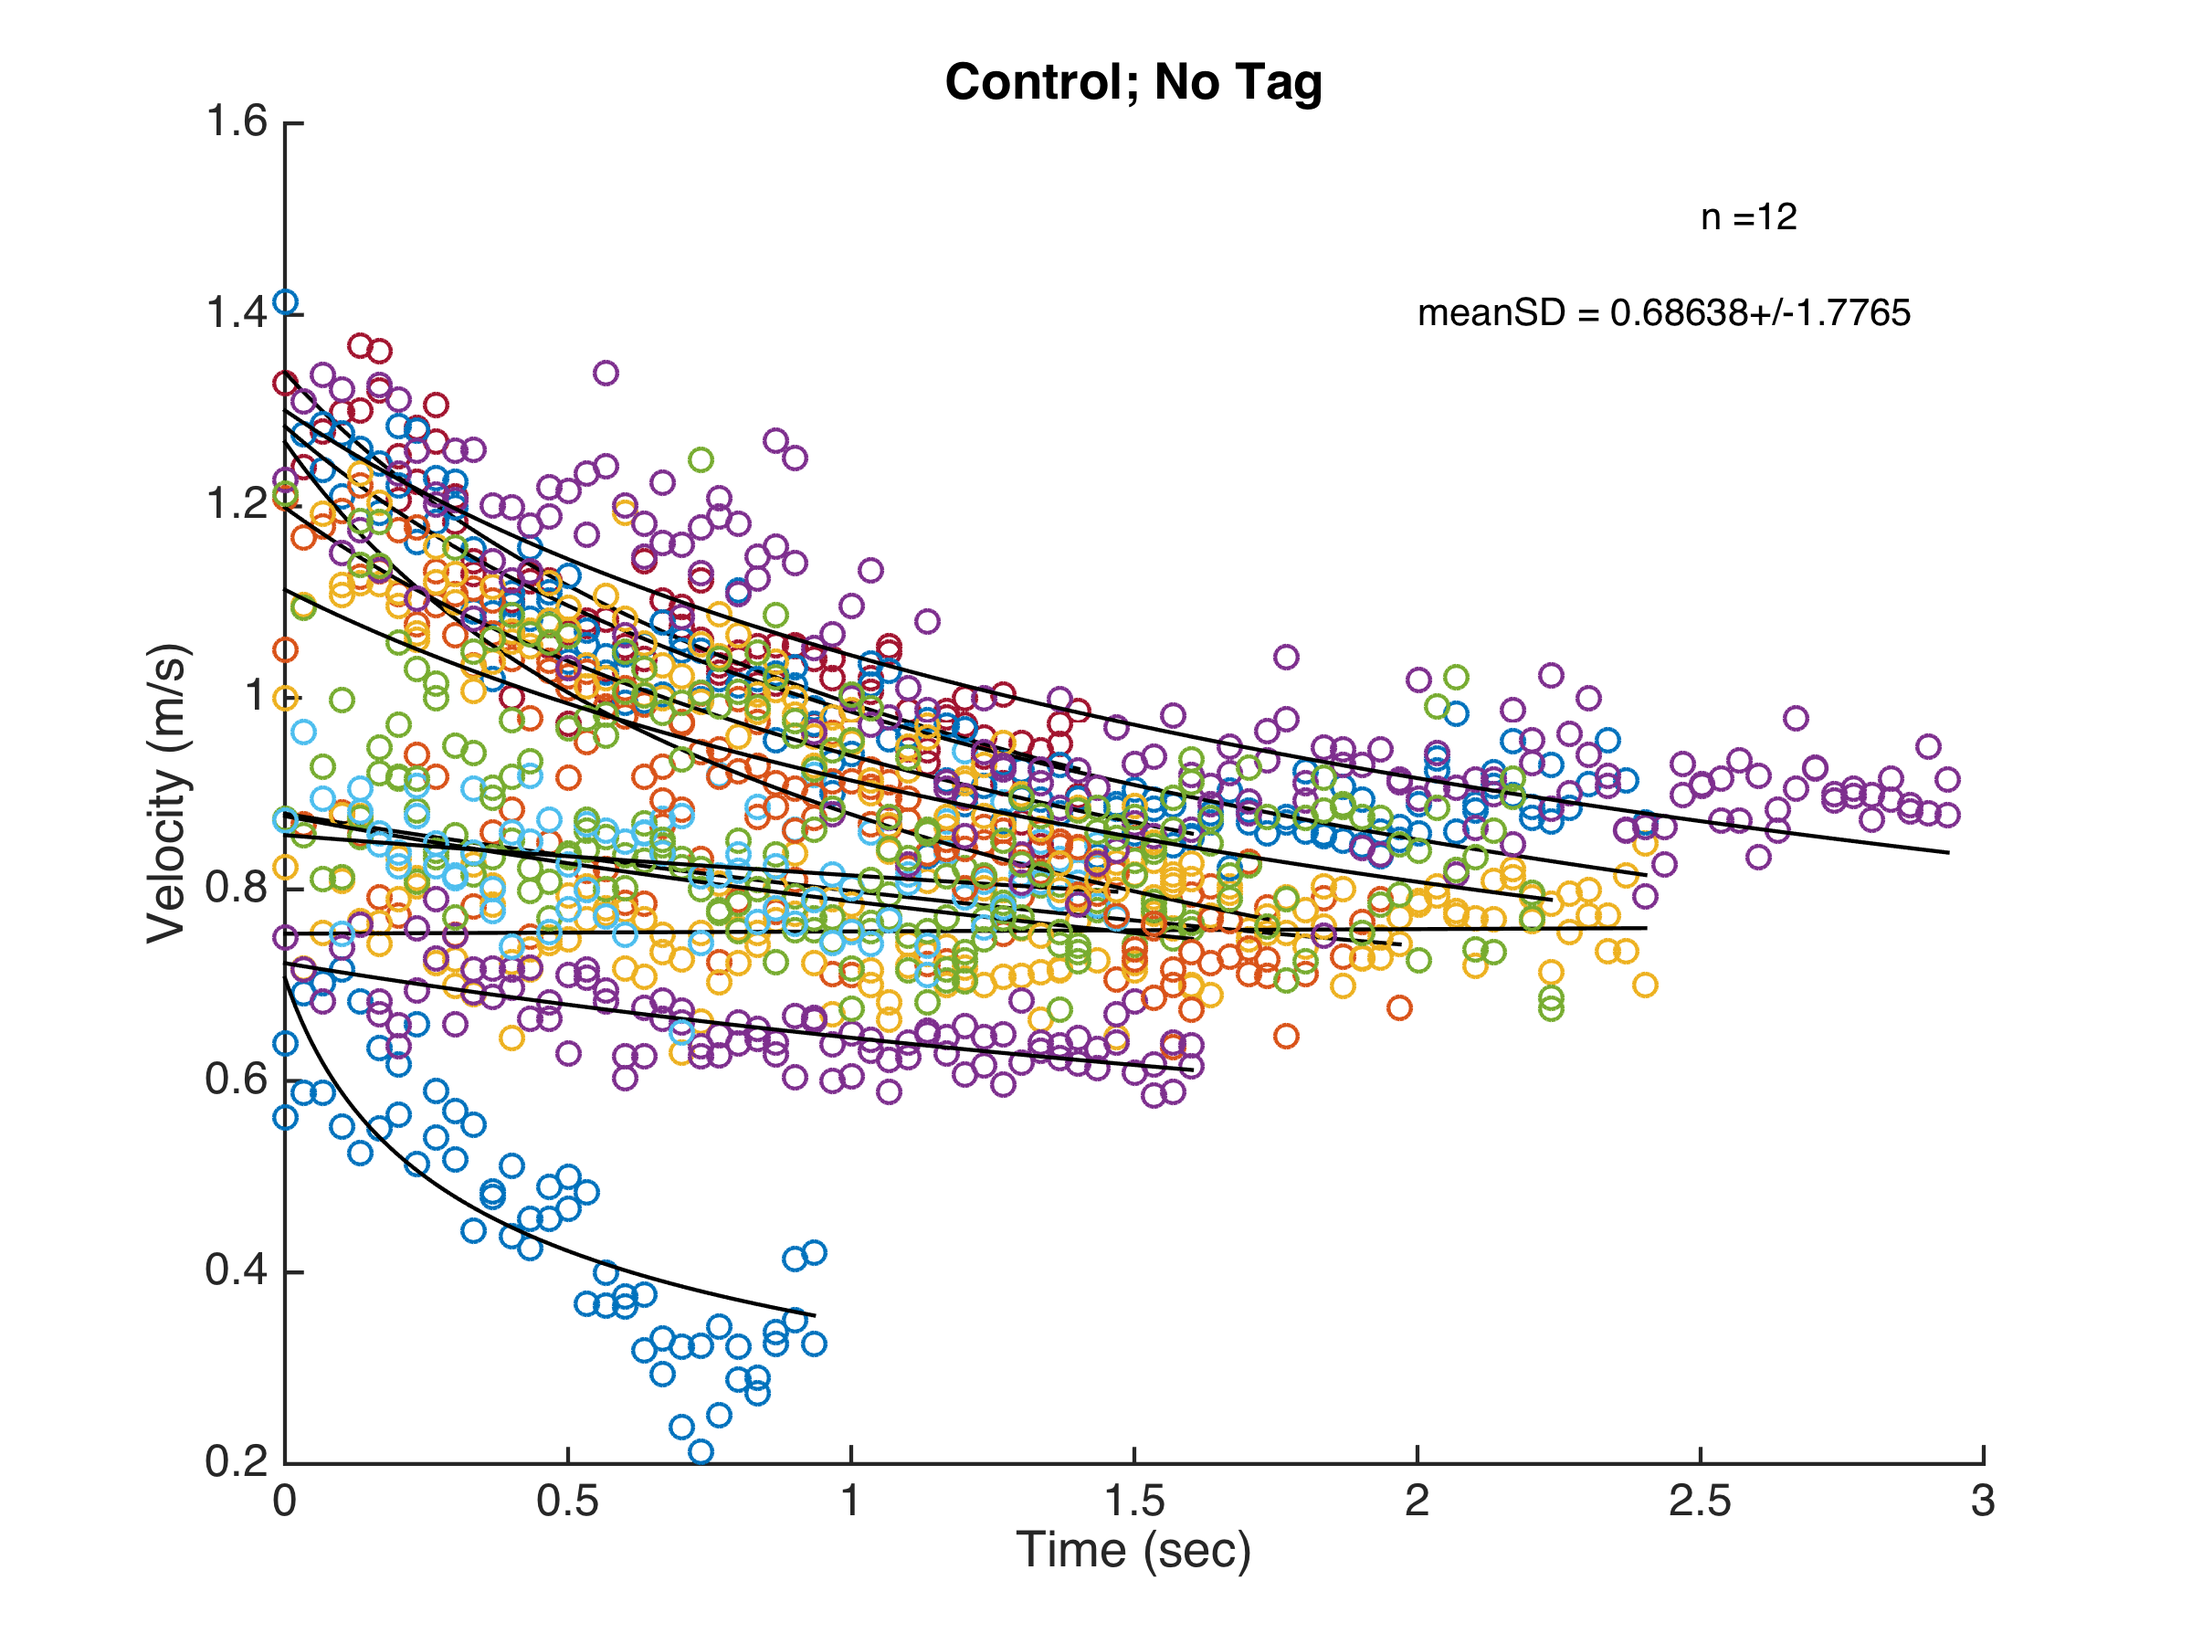
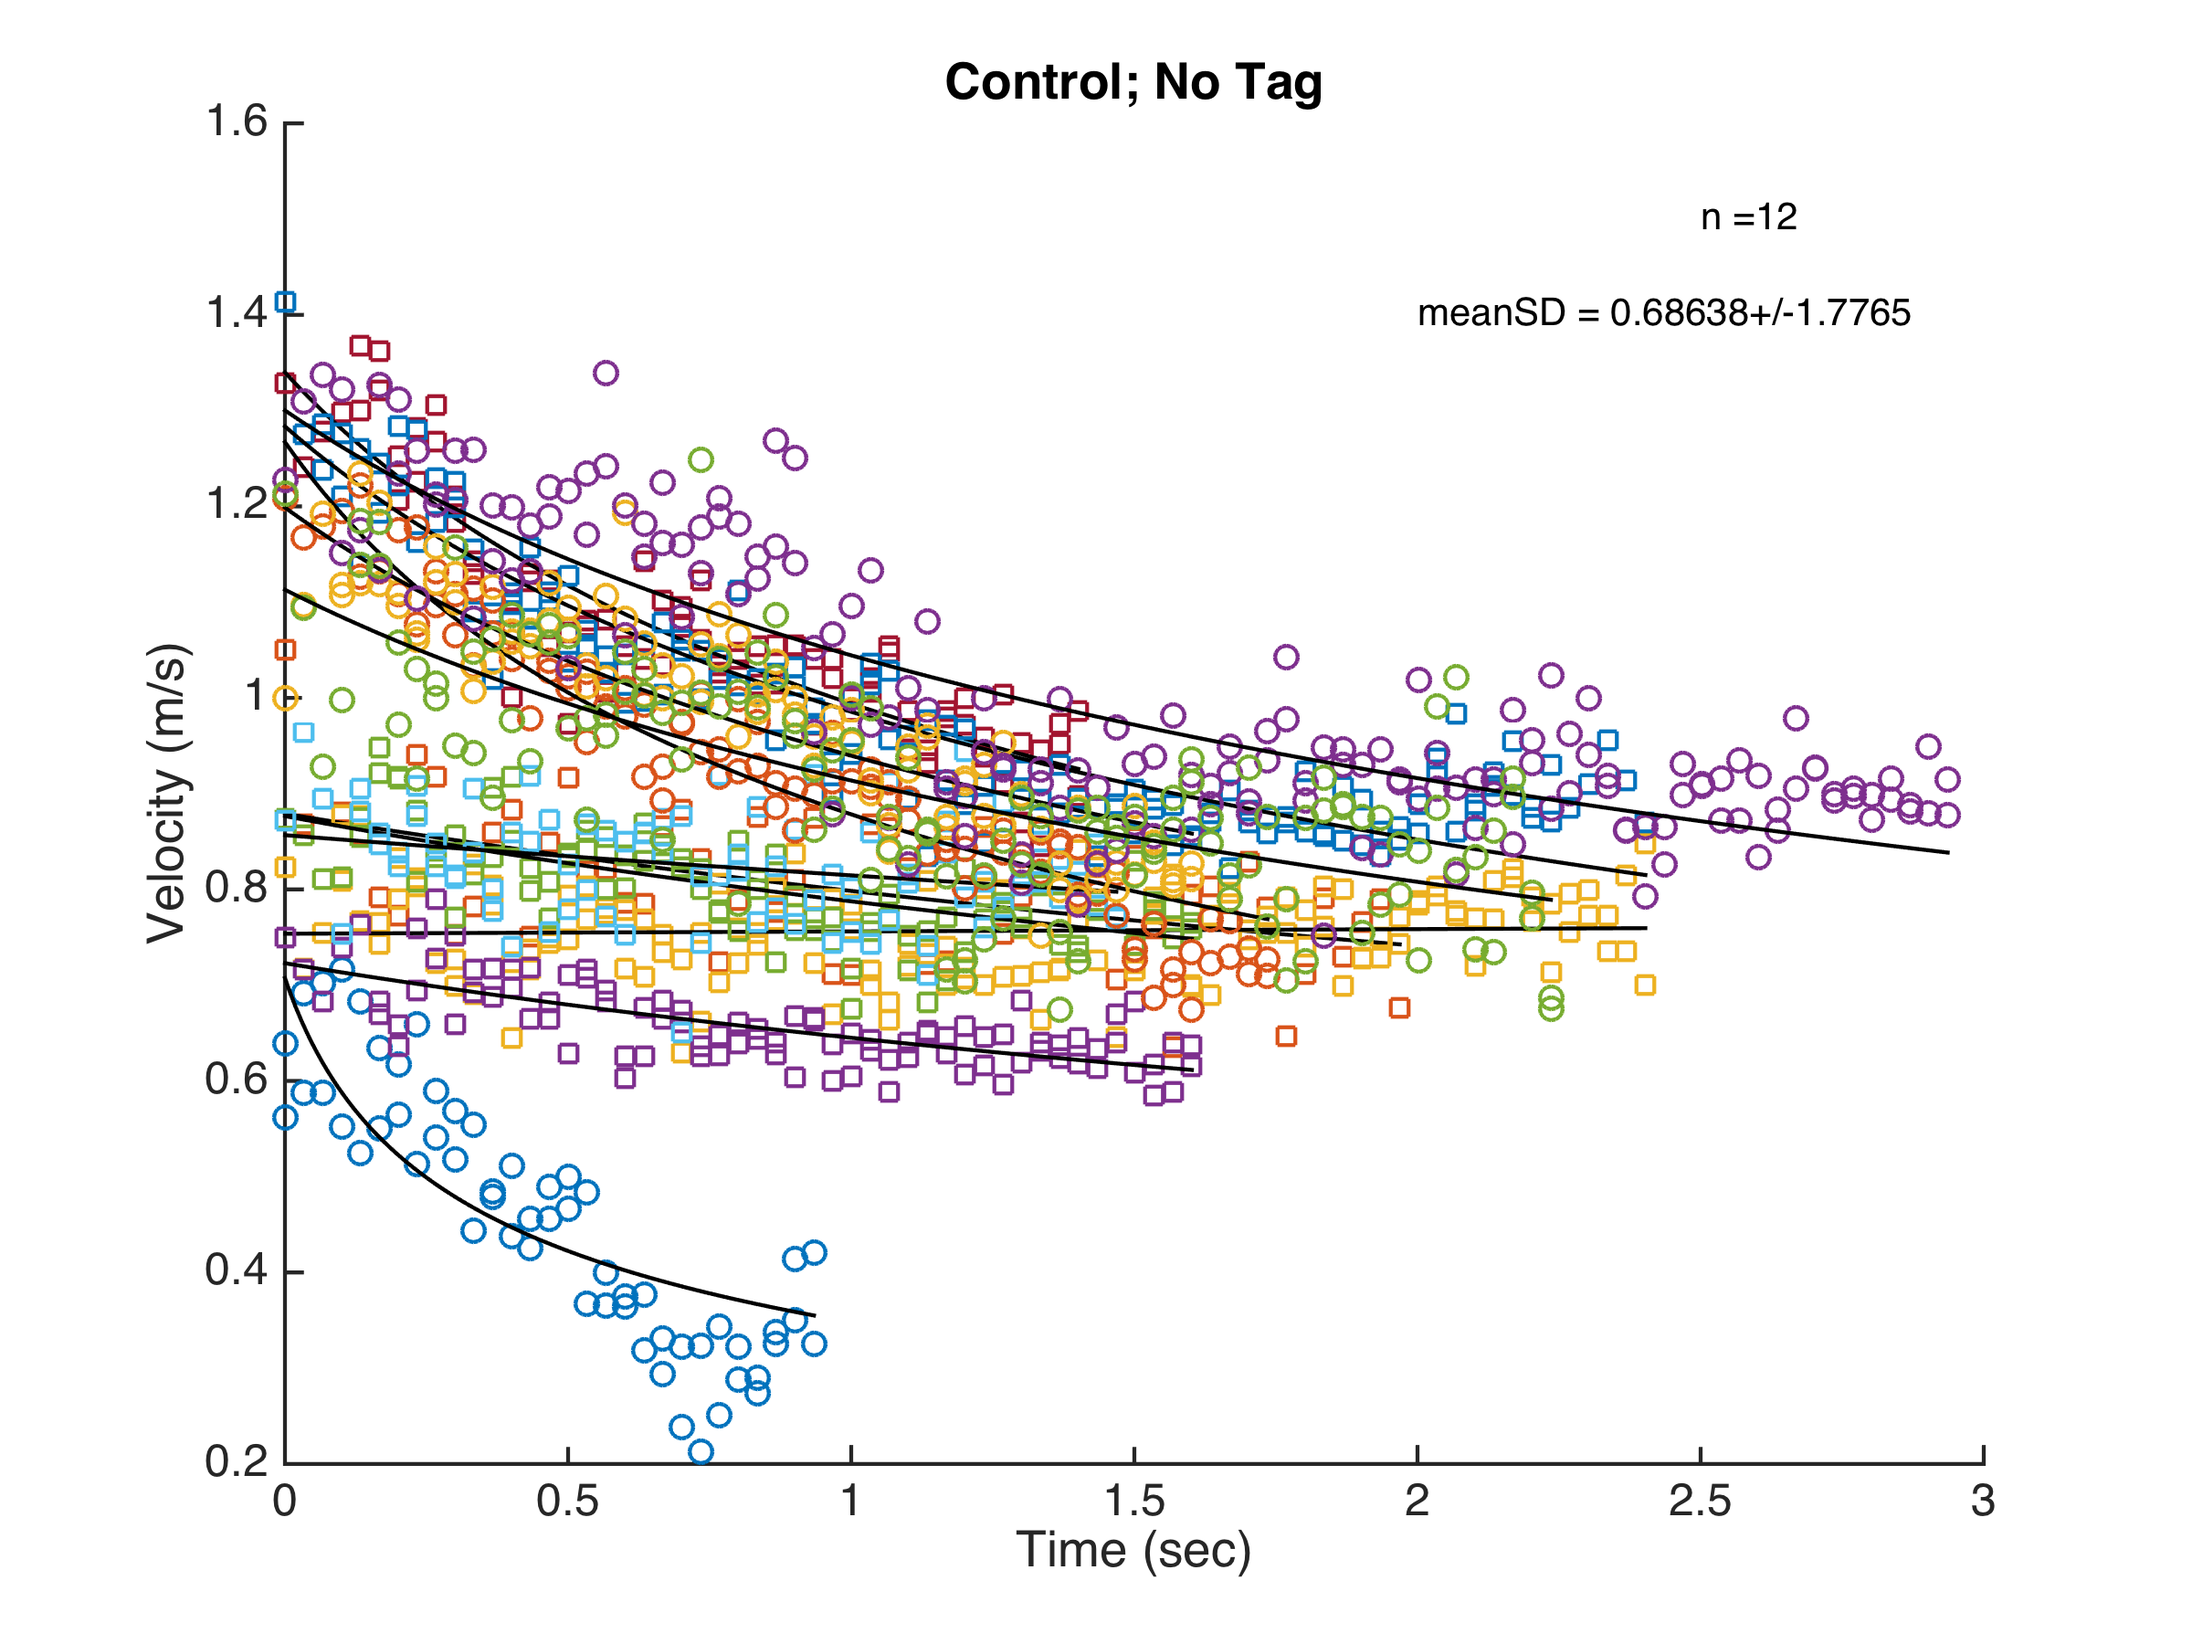
Plot colors

Changed region(s): [[0.125, 0.3422, 0.75, 0.6844], [0.125, 0.1867, 0.2188, 0.3422], [0.2188, 0.4044, 0.25, 0.4356]]

diff --git a/DQ2013_GlideModelAS.m b/DQ2013_GlideModelAS.m
@@ -47,7 +47,7 @@ for i = 1:length(glide)
     times = linspace(xdata(1),xdata(end));
     h1 = plot(xdata,ydata,'o');
     if glide(i).animal == 1
-        set(h1,'markerstyle','s')
+        set(h1,'marker','s')
     end
     plot(times,fun(x(i,:),times),'k-')
     
@@ -158,7 +158,8 @@ x0 = [1,-1];
 
 % plot data
 times = linspace(xdata(1),xdata(end));
-plot(xdata,ydata,'o',times,fun(x,times),'b-')
+plot(xdata,ydata,'ko')
+plot(times,fun(x,times),'k-','Linewidth',2)
 
 % calculate Cd for C0
 Mt = 0; SAt = 0;
@@ -177,7 +178,8 @@ x0 = [1,-1];
 
 % plot data
 times = linspace(xdata(1),xdata(end));
-plot(xdata,ydata,'o',times,fun(x,times),'k-')
+plot(xdata,ydata,'o','Color',[55/255 126/255 184/255])
+plot(times,fun(x,times),'k-','Linewidth',2)
 
 % calculate Cd for C1
 Mt = 0.250; % tag weighs 250 g (weighed on necropsy scale 17 Mar 2016)
@@ -197,7 +199,8 @@ x0 = [1,-1];
 
 % plot data
 times = linspace(xdata(1),xdata(end));
-plot(xdata,ydata,'o',times,fun(x,times),'k-')
+plot(xdata,ydata,'o','Color',[77/255 175/255 74/255])
+plot(times,fun(x,times),'k-','Linewidth',2)
 
 % calculate Cd for C3
 Mt = 0.250+(0.135)*2; % 2x elements are 135 g
@@ -216,7 +219,8 @@ x0 = [1,-1];
 
 % plot data
 times = linspace(xdata(1),xdata(end));
-plot(xdata,ydata,'o',times,fun(x,times),'k-')
+plot(xdata,ydata,'o','Color',[228/255 26/255 28/255])
+plot(times,fun(x,times),'k-','Linewidth',2)
 
 % calculate Cd for C5
 Mt = 0.250+(0.135)*4; % 2x elements are 135 g
@@ -234,13 +238,17 @@ print('Cd_fitall','-dpng','-r300')
 %% compare both methods:
 figure(10); clf; hold on
 subplot(411); ylim([0 8]); hold on
-histogram(Cd(c0),[0:0.05:1]);  plot([Cd0_all Cd0_all],[0 8],'b')
+histogram(Cd(c0),[0:0.05:1],'FaceColor','k');  plot([Cd0_all Cd0_all],[0 8],'k')
+text(0.7,6,'Control, No Tag','FontSize',14)
 subplot(412); ylim([0 8]); hold on
-histogram(Cd(c1),[0:0.05:1]);  plot([Cd1_all Cd1_all],[0 8],'b')
+histogram(Cd(c1),[0:0.05:1],'FaceColor',[55/255 126/255 184/255]);  plot([Cd1_all Cd1_all],[0 8],'k')
+text(0.85,6,'Tag','FontSize',14)
 subplot(413); ylim([0 8]); hold on
-histogram(Cd(c3),[0:0.05:1]);  plot([Cd3_all Cd3_all],[0 8],'b')
+histogram(Cd(c3),[0:0.05:1],'FaceColor',[77/255 175/255 74/255]);  plot([Cd3_all Cd3_all],[0 8],'k')
+text(0.85,6,'Tag+4','FontSize',14)
 subplot(414); hold on; ylim([0 8])
-histogram(Cd(c5),[0:0.05:1]); plot([Cd5_all Cd5_all],[0 8],'b')
+histogram(Cd(c5),[0:0.05:1],'FaceColor',[228/255 26/255 28/255]); plot([Cd5_all Cd5_all],[0 8],'k')
+text(0.85,6,'Tag+8','FontSize',14)
 xlabel('Drag Coefficient');
 adjustfigurefont
 
